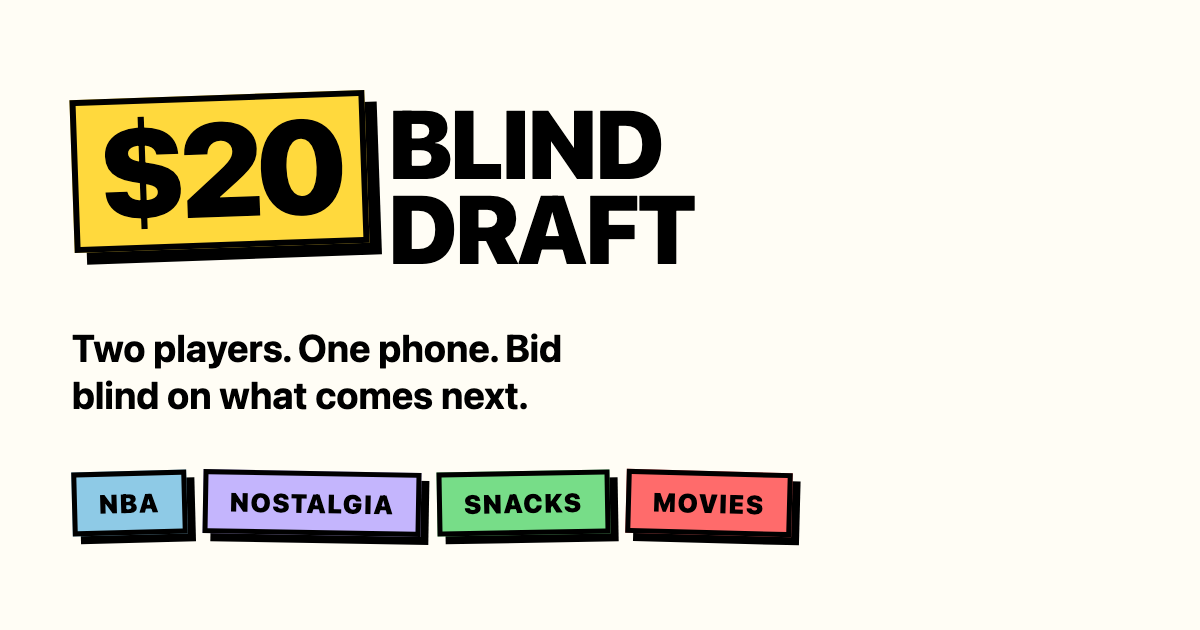
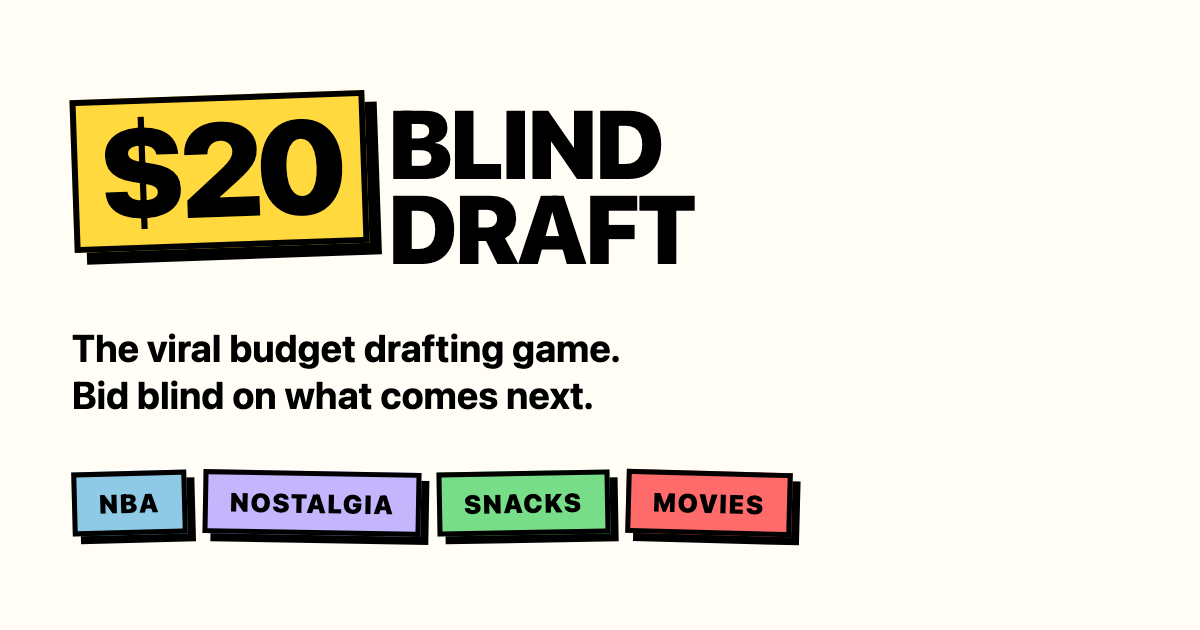
feat(seo): sell it as the viral budget draft

Changed region(s): [[0.0617, 0.5127, 0.5242, 0.6635]]

diff --git a/src/lib/data/index.ts b/src/lib/data/index.ts
@@ -77,7 +77,7 @@ export const CATEGORIES: Category[] = [
 		id: 'mlb',
 		label: 'MLB Players',
 		icon: 'baseball-bat-ball',
-		blurb: 'Nine innings of regret.',
+		blurb: 'Home runs.',
 		accent: 'blue',
 		variants: [
 			variant('mlb-current', 'Current', MLB_CURRENT),
@@ -107,7 +107,7 @@ export const CATEGORIES: Category[] = [
 		id: 'cartoons',
 		label: 'Childhood Cartoons',
 		icon: 'tv',
-		blurb: 'The Cartoon Network block.',
+		blurb: 'The cartoon block.',
 		accent: 'violet',
 		variants: [variant('cartoons', 'Cartoons', CARTOONS)]
 	},
@@ -115,7 +115,7 @@ export const CATEGORIES: Category[] = [
 		id: 'tv-shows',
 		label: 'Childhood TV Shows',
 		icon: 'couch',
-		blurb: 'Disney Channel prime time.',
+		blurb: 'Childhood prime time.',
 		accent: 'violet',
 		variants: [variant('tv-shows', 'TV Shows', TV_SHOWS)]
 	},
@@ -123,7 +123,7 @@ export const CATEGORIES: Category[] = [
 		id: 'nostalgia',
 		label: 'Childhood Nostalgia',
 		icon: 'gamepad',
-		blurb: 'Your whole childhood, going once.',
+		blurb: 'Throwbacks.',
 		accent: 'violet',
 		variants: [variant('nostalgia', 'Nostalgia', NOSTALGIA)]
 	},
@@ -147,7 +147,7 @@ export const CATEGORIES: Category[] = [
 		id: 'foods',
 		label: 'Foods',
 		icon: 'pizza-slice',
-		blurb: 'Bid hungry, lose money.',
+		blurb: 'yum.',
 		accent: 'green',
 		variants: [variant('foods', 'Foods', FOODS)]
 	},
@@ -179,7 +179,7 @@ export const CATEGORIES: Category[] = [
 		id: 'perfect-life',
 		label: 'Perfect Life',
 		icon: 'wand-magic-sparkles',
-		blurb: 'Wishes, going once.',
+		blurb: 'The life you always wanted.',
 		accent: 'yellow',
 		variants: [variant('perfect-life', 'Perfect Life', PERFECT_LIFE)]
 	},
@@ -187,7 +187,7 @@ export const CATEGORIES: Category[] = [
 		id: 'summer-day',
 		label: 'Summer Day',
 		icon: 'umbrella-beach',
-		blurb: 'Assemble one perfect day.',
+		blurb: 'Assemble the perfect day.',
 		accent: 'yellow',
 		variants: [variant('summer-day', 'Summer Day', SUMMER_DAY)]
 	}

diff --git a/src/lib/site.ts b/src/lib/site.ts
@@ -15,13 +15,16 @@ export const SITE_NAME = '$20 Budget Draft';
 /** The on-screen wordmark. Emitted as `alternateName` so the two names link up. */
 export const SITE_ALT_NAME = '$20 Blind Draft';
 
-/** Quotable rather than clever: answer engines lift "X is a Y that does Z". */
+/**
+ * Quotable rather than clever: answer engines lift "X is a Y that does Z". Kept
+ * under ~160 characters so Google shows all of it rather than cutting the last
+ * third; the on-page rules block carries the long explanation.
+ */
 export const SITE_DESCRIPTION =
-	'$20 Budget Draft is a free two-player party game you play in a browser. It is a blind draft: two players share one phone, each get a $20 budget, and bid against each other for items revealed one at a time, with no idea what is coming next.';
+	'$20 Budget Draft is a free two-player party game — the viral budget drafting game, playable in a browser. You each get $20 and bid blind on what comes next.';
 
 /** Short form for the social card, where long copy gets truncated anyway. */
-export const SITE_TAGLINE =
-	'A two-player $20 budget draft. One phone, blind bidding, no idea what is next.';
+export const SITE_TAGLINE = 'The viral budget drafting game. Two players, $20 each, bidding blind.';
 
 export const OG_IMAGE = `${SITE_URL}/og.png`;
 export const OG_IMAGE_ALT =

diff --git a/src/lib/components/SetupScreen.svelte b/src/lib/components/SetupScreen.svelte
@@ -115,7 +115,7 @@
 
 <div class="shell setup">
 	<header class="hero">
-		<span class="eyebrow">Two players · one phone · $20 budget</span>
+		<span class="eyebrow">Two players · $20 budget</span>
 		<h1>
 			<span class="hero__dollar">$20</span>
 			<span class="hero__rest">Blind<br />Draft</span>
@@ -288,9 +288,9 @@
 		<!-- Plain definition, and both names of the game: still prerendered inside
 		     the collapsed block, so it's indexable without competing on screen. -->
 		<p class="rules__what">
-			$20 Blind Draft is a free two-player party game played in a browser — the $20 budget draft
-			you've seen going around. Two players share one phone, each get a $20 budget, and bid against
-			each other for items revealed one at a time.
+			$20 Blind Draft is a free two-player party game played in a browser — the viral $20 budget
+			draft you've seen going around. You each get a $20 budget and bid against each other for items
+			revealed one at a time.
 		</p>
 		<ol>
 			<li>An item is revealed. Neither of you knew it was coming.</li>
